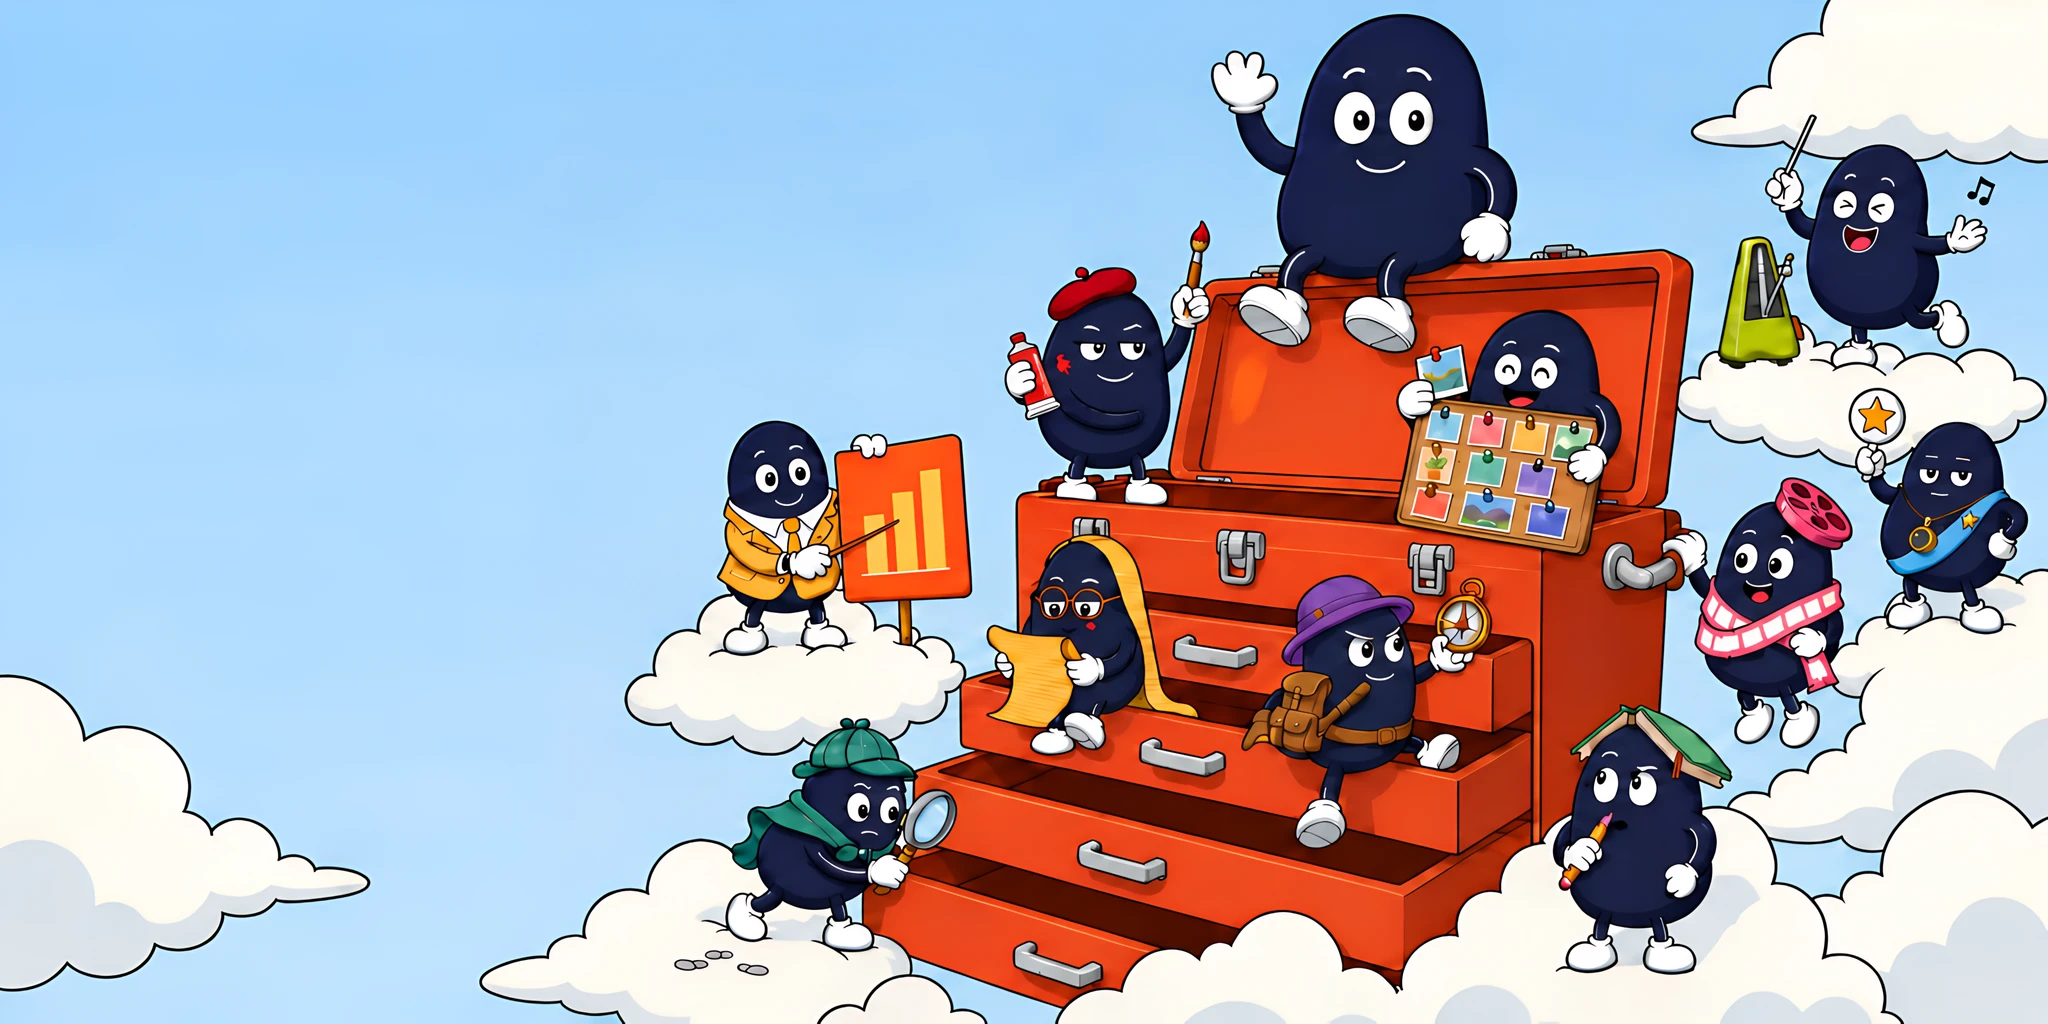
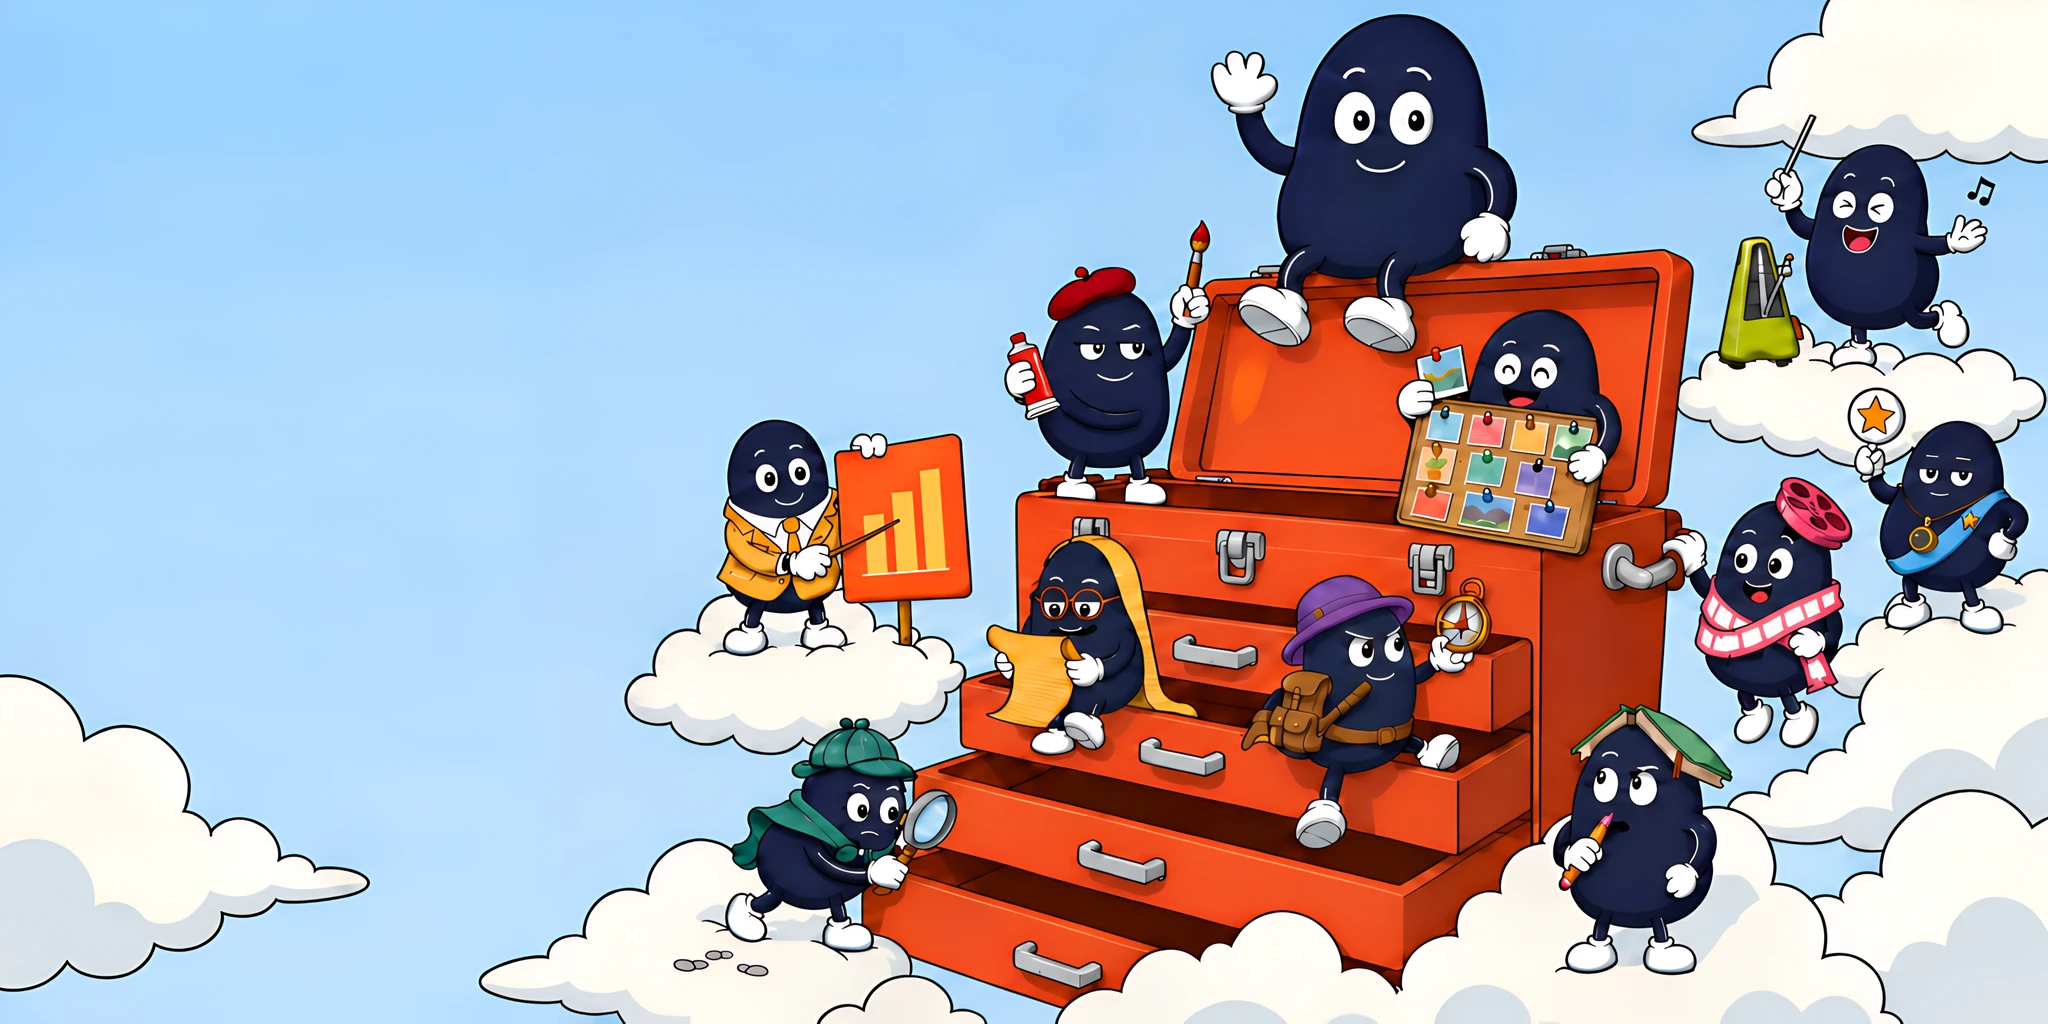
fix(art): the reader's smile, moodboard without the easel; gate green
Round 10, 21 credits. The banner's sky gradient and soft right clouds are
the round-6 look, waived by the owner under the stopping rule.

diff --git a/art/cast/README.md b/art/cast/README.md
@@ -108,5 +108,6 @@ One gotcha stays with this folder: `cutout.py` floods from the border over light
 | 8 | 126 | model comparison: a costume, a card scene, one banner fix and pose thumbnails on five models, ranked blind by `art-critique` | `gpt_image_2_medium` for costumes, `gpt_image_2p5_sunburst` for scenes and fixes, `gpt_image_2_low` for pose sheets; results in `brand-art`'s vendors file |
 | 8b | 22 | the same scene, fix and pose tests on GPT Image 2.6 in Recraft Studio, through the yab browser | 2.6 Sunburst lost the scene to 2.5 and tied on the fix; markup was the most surgical edit but drew a second board |
 | 9 | 62 | fix round on `gpt_image_2p5_sunburst`: the critic added to the banner, learn's chalkboard blanked, moodboard's butterflies removed and its easel board redrawn, the banner's film-buff handle and the artist's brush separated; each banner edit upscaled from 1440 px | the critic joins as card 10; card text enlarged, scenes zoomed, the banner shipped full colour to stop banding; the critique passes nine cards and still returns fix on the banner and moodboard |
+| 10 | 21 | two last fixes on `gpt_image_2p5_sunburst`: the reader's tongue blot in the banner redrawn as a white smile (upscaled from 1440 px), and moodboard's easel removed with a card raised in its free mitten, the frame tightened 10% to restore the value spread | moodboard passes; the banner's sky gradient and soft right clouds are the round-6 look and were waived by the owner under art-critique's new stopping rule |
 
-Balance: 911 credits before the pilot, 714 after its final round, 595 after round 7, 469 after round 8, 447 after round 8b, 385 after round 9. That is 7 more than the logged calls add up to: the first face-kit call was interrupted, `get_user` showed no charge right after, and it was most likely billed later.
+Balance: 911 credits before the pilot, 714 after its final round, 595 after round 7, 469 after round 8, 447 after round 8b, 385 after round 9, 364 after round 10. That is 7 more than the logged calls add up to: the first face-kit call was interrupted, `get_user` showed no charge right after, and it was most likely billed later.
